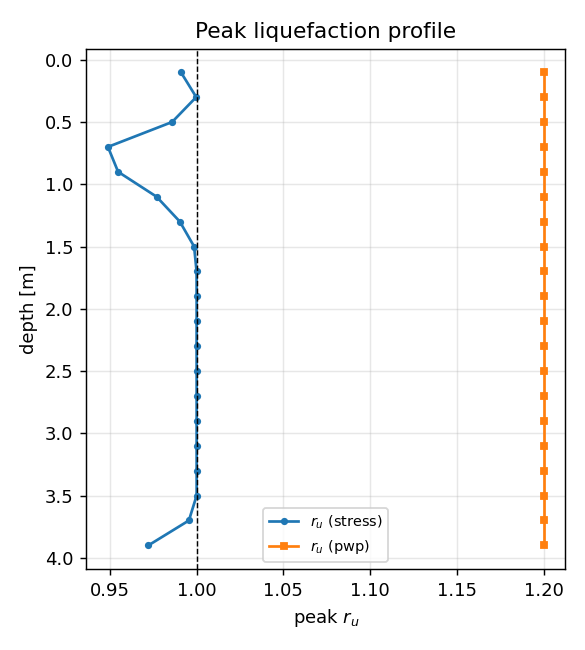
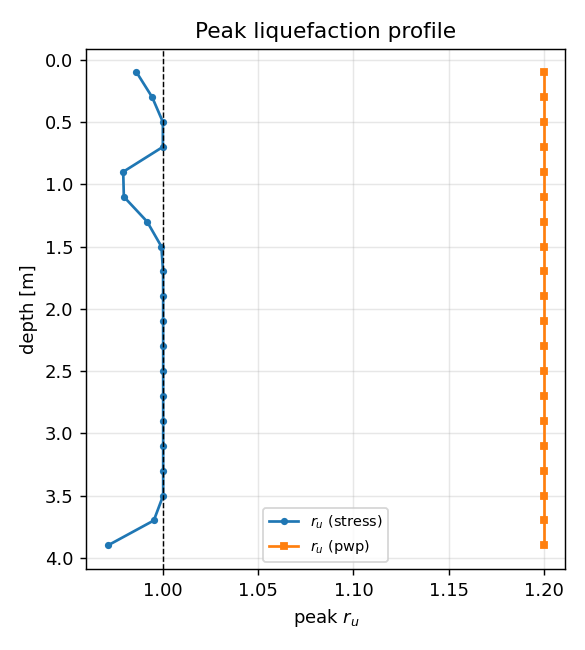
Update docs and figures for averaged base motion and dual-data validation

diff --git a/README.md b/README.md
@@ -2,8 +2,8 @@
 
 A small, runnable OpenSeesPy mini-project that simulates the **LEAP-UCD-2017**
 mildly **sloping ground** liquefaction / lateral-spreading experiment and
-post-processes the results for validation against the DesignSafe **PRJ-1843**
-data.
+validates it against the DesignSafe **PRJ-1843** centrifuge data, using **both**
+the recorded **accelerations** and **pore pressures**.
 
 The deposit (saturated, medium-dense Ottawa F-65 sand, ~5° slope) is modelled
 as an **effective-stress, fully-coupled (u-p)** infinite slope using:
@@ -42,7 +42,7 @@ opensees_leap/
 ├── output/                    # (generated) recorder time histories *.out
 ├── postprocess/
 │   ├── plot_results.py        # figures: accel, ru, lateral displacement
-│   └── compare_with_leap.py   # overlay recorded LEAP data vs simulation
+│   └── compare_with_leap.py   # recorded vs simulated: accel + pore pressure
 ├── report/                    # (generated) PNG figures + summary.txt
 ├── data/                      # LEAP-UCD-2017 data (DesignSafe PRJ-1843)
 ├── requirements.txt
@@ -61,8 +61,8 @@ pip install -r requirements.txt
 python input\leap_input_motion.py
 
 # 2b. ... OR build the base motion from your downloaded LEAP CSV (see below)
-python input\leap_csv_to_motion.py --list
-python input\leap_csv_to_motion.py --base "AH11 (g)" --t0 0 --t1 25
+python input\leap_csv_to_motion.py --list      # inspect channels
+python input\leap_csv_to_motion.py             # base = mean(AH11, AH12)
 
 # 3. run the effective-stress model (gravity + dynamic stages)
 python input\model_2D_slope.py
@@ -70,7 +70,7 @@ python input\model_2D_slope.py
 # 4. post-process -> figures and summary in report\
 python postprocess\plot_results.py
 
-# 5. (if you used real data) overlay recorded vs simulated response
+# 5. (if you used real data) validate against recorded accel + pore pressure
 python postprocess\compare_with_leap.py
 ```
 
@@ -84,38 +84,42 @@ The processed LEAP CSV (e.g. `CU2_Motion1_Processed_4222.csv`) has columns:
 Time (sec), AH1..AH12 (g), AV1..AV2 (g), P1..P10 (kpa)
 ```
 
-- **AHx (g):** horizontal accelerometers (soil array + base/container).
-- **AVx (g):** vertical accelerometers.
-- **Px (kpa):** pore-pressure transducers (PPTs).
+- **AHx (g):** horizontal accelerometers — central array `AH1..AH4`, container
+  base `AH11`/`AH12`.
+- **Px (kpa):** pore-pressure transducers (excess pore pressure) — central
+  array `P1..P4`, base corners `P9`/`P10`.
 
-Key facts about these files (verified on `CU2_Motion1`):
+Key facts (verified on `CU2_Motion1`):
 
 - **Scale:** the data are at **prototype scale** (dominant frequency ≈ 1 Hz,
-  PGA ≈ 0.15–0.23 g). **No centrifuge (1/N) scaling is required** — feed it to
-  the model directly. (If you ever use a *model-scale* file, convert first:
-  prototype time = N·model time, prototype accel = model accel / N, stresses
-  are 1:1.)
-- **Sampling:** a high-rate dynamic segment (~149 Hz, dt ≈ 0.0067 s) up to
-  ~96 s, followed by a coarse post-shaking **consolidation tail** out to ~200 s.
-- **Strong motion:** ~6.8–14.9 s; PPTs build up during shaking then dissipate —
-  i.e. real liquefaction + reconsolidation.
+  PGA ≈ 0.2 g). **No centrifuge (1/N) scaling is required** — feed it directly.
+  (If you ever use a *model-scale* file, convert first: prototype time = N·model
+  time, prototype accel = model accel / N, stresses are 1:1.)
+- **Sampling:** a high-rate dynamic segment (~149 Hz, dt ≈ 0.0067 s) followed by
+  a coarse post-shaking **consolidation tail** out to ~200 s.
+- **Base input motion:** per the LEAP-UCD-2017 spec, it is the **average of
+  `AH11` and `AH12`** (the two container-base accelerometers). `leap_csv_to_motion.py`
+  does this by default.
+- **Central array (for validation):** `P1..P4` and `AH1..AH4` sit at prototype
+  depths ≈ 4, 3, 2, 1 m, with initial σ'v0 ≈ 40, 30, 20, 10 kPa — matching the
+  model's stress profile. Recorded `Px` is *excess* pore pressure, so
+  `ru_recorded = Px / σ'v0(depth)`.
 
-Steps to use it:
+Steps:
 
 1. Put the CSV in `data/`.
-2. `python input\leap_csv_to_motion.py --list` and identify the **base /
-   container** channel from the PRJ-1843 **sensor-layout sheet**. In the
-   standard layout the base accelerometers are `AH11`/`AH12` (raw table content,
-   ~3 Hz), while the soil-embedded sensors (`AH2..AH9`) show the filtered ~1 Hz
-   motion. **Confirm before trusting the default `AH11`.**
-3. `python input\leap_csv_to_motion.py --base "AH11 (g)" --t0 0 --t1 25` writes
-   `input/base_motion.txt` (used by the model) and `data/leap_recorded.csv`
-   (used by the comparison plot).
-4. Run the model and `compare_with_leap.py`.
+2. `python input\leap_csv_to_motion.py --list` to inspect channels (PGA +
+   dominant frequency). Confirm channel names against the PRJ-1843
+   **sensor-layout sheet** for your test.
+3. `python input\leap_csv_to_motion.py` writes `input/base_motion.txt`
+   (base = mean of `AH11`,`AH12`) and `data/leap_recorded.csv`.
+4. Run the model, then `compare_with_leap.py` to overlay **both** the recorded
+   accelerations (`AH1..AH4`) and pore-pressure ratios (`P1..P4`) at matched
+   depths.
 
-> Quantitative PPT/accel comparison needs each sensor's depth/location mapped to
-> a model element — take those positions from the sensor-layout sheet and set
-> them in `postprocess/compare_with_leap.py`.
+> As-built sensor depths vary slightly by facility. The standard LEAP depths are
+> pre-set in `postprocess/compare_with_leap.py` (`ACC_DEPTH`, `PPT_DEPTH`) — edit
+> them to the exact values from the layout sheet for a precise match.
 
 ## Analysis stages
 
@@ -133,12 +137,29 @@ Steps to use it:
 - `output/disp.out`, `accel.out`, `porepressure.out` — nodal time histories.
 - `output/stress.out`, `strain.out` — element (gauss-point) time histories.
 - `output/sigma_v0.out` — initial effective vertical stress per element.
-- `report/*.png` — acceleration, excess pore-pressure ratio (rᵤ), rᵤ-with-depth
-  profile, lateral-displacement, and recorded-vs-simulated comparison figures.
+- `report/acceleration.png`, `excess_pwp_ratio.png`, `ru_profile.png`,
+  `lateral_displacement.png` — simulated response.
+- `report/compare_accel.png`, `compare_ru_time.png`, `compare_ru_profile.png` —
+  recorded-vs-simulated validation (accelerations and pore pressures).
 - `report/summary.txt` — key scalar results.
 
 Excess pore-pressure ratio is reported as `rᵤ = 1 − σ'v(t)/σ'v0` (from element
-effective stress) and cross-checked against the nodal pore-pressure excess.
+effective stress) and cross-checked against the recorded PPT excess.
+
+## Example validation (CU2, Motion 1)
+
+Driven by the recorded base motion (mean of `AH11`,`AH12`, PGA ≈ 0.21 g), the
+model reproduces near-full liquefaction through the central array:
+
+| depth (m) | recorded peak rᵤ | simulated peak rᵤ |
+|----------:|-----------------:|------------------:|
+| 4 | 1.07 | 0.97 |
+| 3 | 1.01 | 1.00 |
+| 2 | 1.03 | 1.00 |
+| 1 | 1.19 | 0.98 |
+
+(Recorded rᵤ slightly exceeds 1 due to transient PPT spikes and the
+approximate sensor depths.)
 
 ## Tuning notes
 
